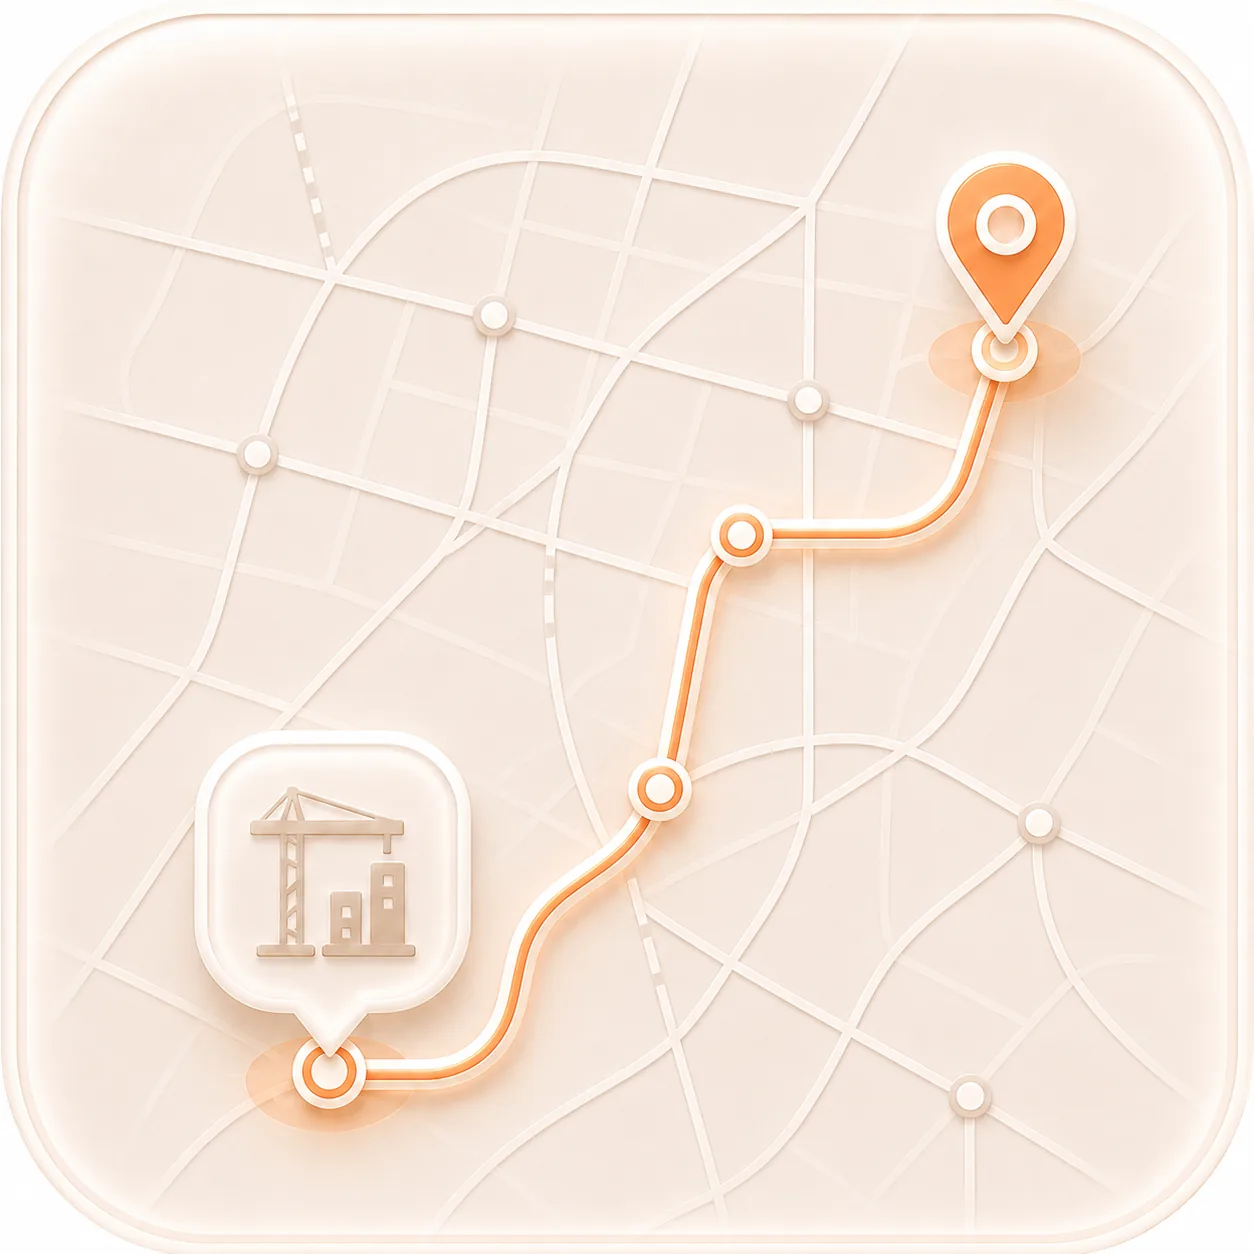
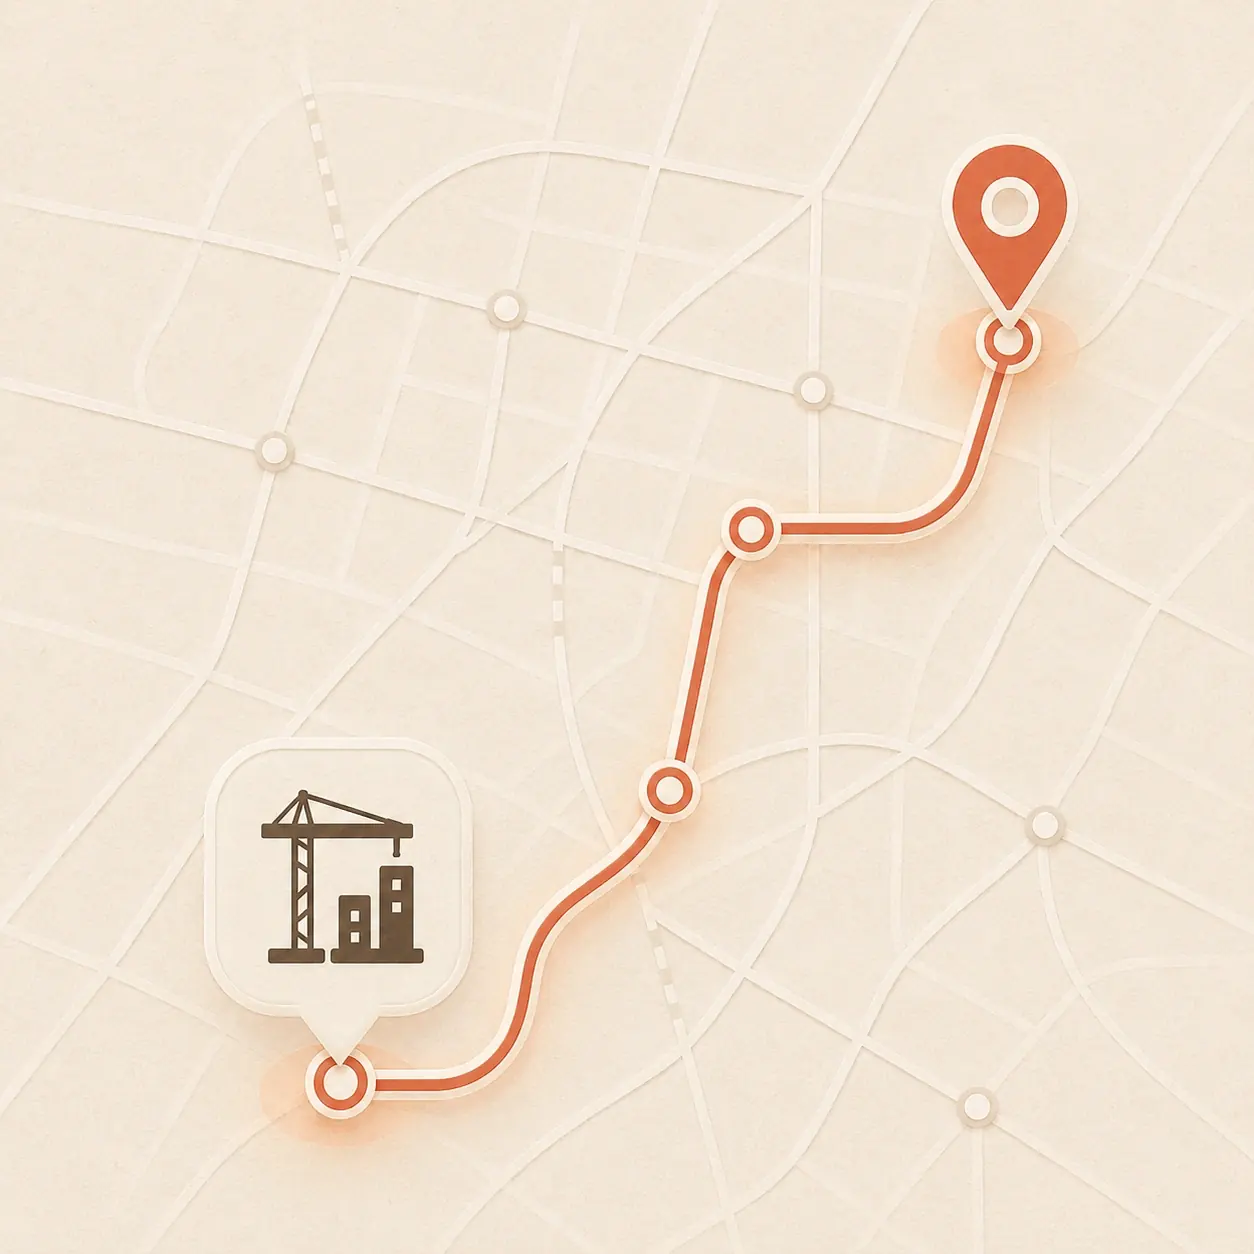
feat(hero): replace route map v3

diff --git a/src/styles/global.css b/src/styles/global.css
@@ -6779,3 +6779,24 @@ body.home-color-anthropic #demo {
     gap: var(--space-3);
   }
 }
+
+/* هیرو فریملس — تصویر v3 قاب داخلی ندارد */
+body.home-color-anthropic .hero-placeholder.hero-bento {
+  border: none;
+  background: transparent;
+  box-shadow: none;
+  padding: 0;
+}
+
+body.home-color-anthropic .hero-bento-scene {
+  width: min(100%, 34rem);
+  overflow: visible;
+  border: none;
+  border-radius: 0;
+  background: transparent;
+}
+
+body.home-color-anthropic .hero-bento-scene::after,
+body.home-color-anthropic .hero-bento-orbit {
+  display: none;
+}